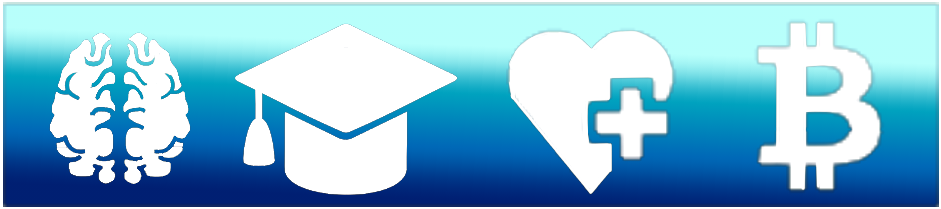
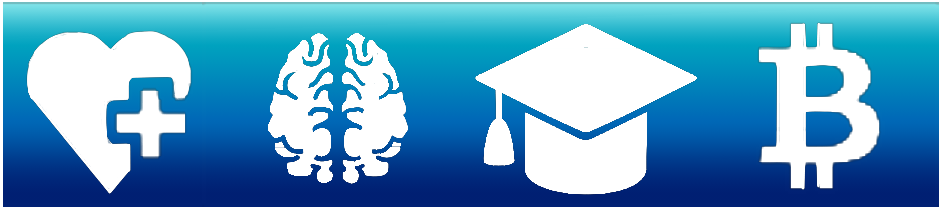
Updated GameScreen.java, change places for specs, added markers for specs change.

diff --git a/core/src/ru/scg/GameScreen.java b/core/src/ru/scg/GameScreen.java
@@ -33,9 +33,11 @@ public class GameScreen implements Screen {
     private Label study;
     private Label health;
     private Label money;
+    private Texture change;
     private Texture mask;
     private Texture cardTextue;
     private Image cardImage;
+    private Image mentalChangeI, studyChangeI, healthChangeI, moneyChangeI;
     private Image maskImg;
     private Button left;
     private Button right;
@@ -60,12 +62,6 @@ public class GameScreen implements Screen {
         initCard();
         initSpecs();
         initButtons();
-
-        mask = new Texture(Gdx.files.internal("Mask.png"));
-        maskImg = new Image(mask);
-        maskImg.setPosition(420, 600);
-        maskImg.setSize(440, 100);
-        stage.addActor(maskImg);
     }
 
     private void initButtons() {
@@ -155,17 +151,17 @@ public class GameScreen implements Screen {
 
     private void initSpecs() {
         mental = new Label("", skin, "spec");
-        mental.setPosition(430, 600);
+        mental.setPosition(525, 600);
         mental.setSize(90, 15+75);
         stage.addActor(mental);
 
         study = new Label("", skin, "spec");
-        study.setPosition(520, 600);
+        study.setPosition(640, 600);
         study.setSize(130, 15+80);
         stage.addActor(study);
 
         health = new Label("", skin, "spec");
-        health.setPosition(650, 600);
+        health.setPosition(418, 600);
         health.setSize(100, 15+80);
         stage.addActor(health);
 
@@ -173,6 +169,37 @@ public class GameScreen implements Screen {
         money.setPosition(750, 600);
         money.setSize(100, 15+80);
         stage.addActor(money);
+
+        mask = new Texture(Gdx.files.internal("Mask.png"));
+        maskImg = new Image(mask);
+        maskImg.setPosition(420, 600);
+        maskImg.setSize(440, 100);
+        stage.addActor(maskImg);
+
+        change = new Texture(Gdx.files.internal("cyan-dodgeball.png"));
+        healthChangeI = new Image(change);
+        healthChangeI.setPosition(510, 610);
+        healthChangeI.setSize(20,15);
+        stage.addActor(healthChangeI);
+        healthChangeI.addAction(alpha(0));
+
+        mentalChangeI = new Image(change);
+        mentalChangeI.setPosition(610, 610);
+        mentalChangeI.setSize(20,15);
+        stage.addActor(mentalChangeI);
+        mentalChangeI.addAction(alpha(0));
+
+        studyChangeI = new Image(change);
+        studyChangeI.setPosition(728, 610);
+        studyChangeI.setSize(20,15);
+        stage.addActor(studyChangeI);
+        studyChangeI.addAction(alpha(0));
+
+        moneyChangeI = new Image(change);
+        moneyChangeI.setPosition(820, 610);
+        moneyChangeI.setSize(20,15);
+        stage.addActor(moneyChangeI);
+        moneyChangeI.addAction(alpha(0));
     }
 
     private void initLabels() {
@@ -216,18 +243,60 @@ public class GameScreen implements Screen {
         {
             cardImage.addAction(parallel(moveBy(-70, 0, .5f, Interpolation.pow2), rotateBy(5f, .5f))/*run(transitionRunnable)*/);
             rightAnswer.addAction(parallel(moveBy(-90, 80, .5f, Interpolation.pow2), alpha(1, .5f)));
+            short[] stats = card.getStatsR();
+            if(stats[0] != 0)
+            {
+                healthChangeI.addAction(alpha(1, .5f));
+            }
+            if(stats[1] != 0)
+            {
+                mentalChangeI.addAction(alpha(1, .5f));
+            }
+            if(stats[2] != 0)
+            {
+                studyChangeI.addAction(alpha(1, .5f));
+            }
+            if(stats[3] != 0)
+            {
+                moneyChangeI.addAction(alpha(1, .5f));
+            }
             movedStatus = 2;
         } else if (Gdx.input.getX() < 880 && Gdx.input.getX() > 680 && movedStatus != 1 && Gdx.input.getY() > 120 && Gdx.input.getY() < 520) {
             cardImage.addAction(parallel(moveBy(70, 0, .5f, Interpolation.pow2), rotateBy(-5f, .5f))/*run(transitionRunnable)*/);
             leftAnswer.addAction(parallel(moveBy(90, -60, .5f, Interpolation.pow2), alpha(1, .5f)));
+            short[] stats = card.getStatsL();
+            if(stats[0] != 0)
+            {
+                healthChangeI.addAction(alpha(1, .5f));
+            }
+            if(stats[1] != 0)
+            {
+                mentalChangeI.addAction(alpha(1, .5f));
+            }
+            if(stats[2] != 0)
+            {
+                studyChangeI.addAction(alpha(1, .5f));
+            }
+            if(stats[3] != 0)
+            {
+                moneyChangeI.addAction(alpha(1, .5f));
+            }
             movedStatus = 1;
         } else if ((Gdx.input.getX() < 400 || Gdx.input.getX() > 880)||(Gdx.input.getX() > 600 && Gdx.input.getX() < 680)) {// FIXME: collision bug
             if (movedStatus == 2)
             {
+                healthChangeI.addAction(alpha(0, .5f));
+                mentalChangeI.addAction(alpha(0, .5f));
+                studyChangeI.addAction(alpha(0, .5f));
+                moneyChangeI.addAction(alpha(0, .5f));
                 cardImage.addAction(parallel(moveBy(70, 0, .5f), rotateBy(-5f, .5f))/*run(transitionRunnable)*/);
                 rightAnswer.addAction(parallel(moveBy(90, -80, .5f, Interpolation.pow2), alpha(0, .5f)));
                 movedStatus = 0;
             } else if (movedStatus == 1) {
+                healthChangeI.addAction(alpha(0, .5f));
+                mentalChangeI.addAction(alpha(0, .5f));
+                studyChangeI.addAction(alpha(0, .5f));
+                moneyChangeI.addAction(alpha(0, .5f));
                 cardImage.addAction(parallel(moveBy(-70, 0, .5f), rotateBy(5f, .5f))/*run(transitionRunnable)*/);
                 leftAnswer.addAction(parallel(moveBy(-90, 60, .5f, Interpolation.pow2), alpha(0, .5f)));
                 movedStatus = 0;
